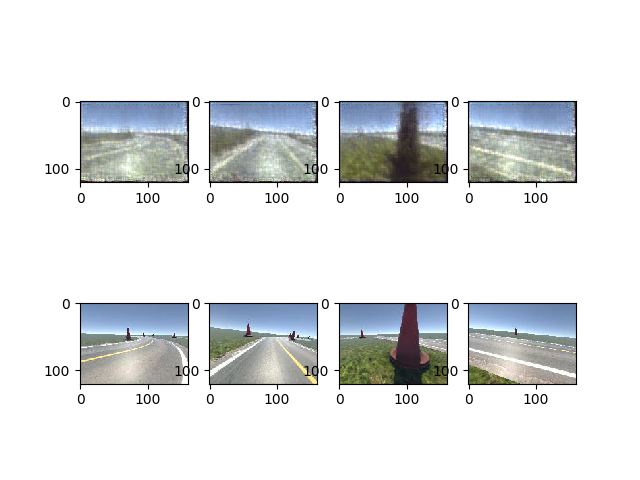
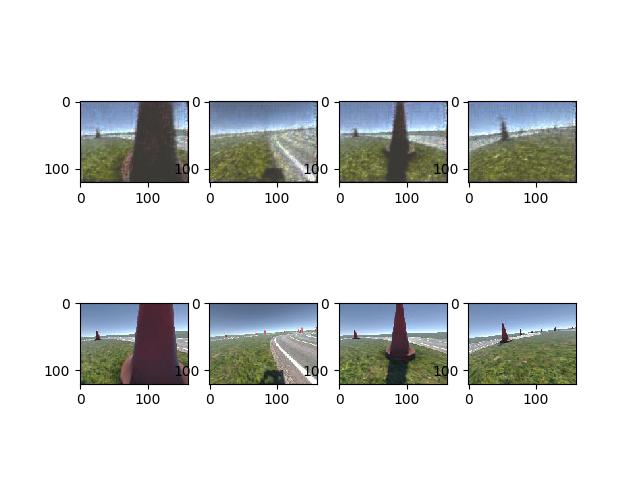
preprocessing with floor_divide on images

diff --git a/srcs/AutoEncoder/testor.py b/srcs/AutoEncoder/testor.py
@@ -9,6 +9,8 @@ from ContractiveAutoEncoder import ContractiveAutoEncoder
 from PoolingAutoEncoder import PoolingAutoEncoder
 
 
+PREPROCESSING = False
+
 def show_imgs(X, Y, path=None):
 	m = len(X)
 	_, axs = plt.subplots(2, m)
@@ -28,6 +30,9 @@ def visu_plot(ae, b, save=None):
 	X = b[0]
 	Y = b[0]
 	print()
+	if PREPROCESSING:
+		X = preprocessing(X)
+		Y = preprocessing(Y)
 	X = ae.predict(X)
 	show_imgs(X, Y, path=save)
 
@@ -42,6 +47,14 @@ def load(data_dir="simulator_cache"):
                                     num_workers=1,
                                     pin_memory=True, shuffle=True)
 	return train, test
+
+
+def preprocessing(data, simplify=30.):
+	# return data
+	data = torch.div(data * 255., simplify, rounding_mode="trunc") * simplify / 255
+	# data = (data // simplify).type(torch.float32) * simplify
+	return data
+
 
 if __name__ == "__main__":
 	train, test = load()
@@ -58,12 +71,15 @@ if __name__ == "__main__":
 
 	i = 0
 	m = len(train)
-	nb_epochs = 10
+	nb_epochs = 15
 	for e in range(nb_epochs):
 		print(f"Epoch {e}/{nb_epochs}")
 		for batch in train:
+			data = batch[0]
+			if PREPROCESSING:
+				data = preprocessing(data)
 			ae.loss = 0.
-			ae.train(batch[0])
+			ae.train(data)
 			i += 1
 
 	for batch in test:
